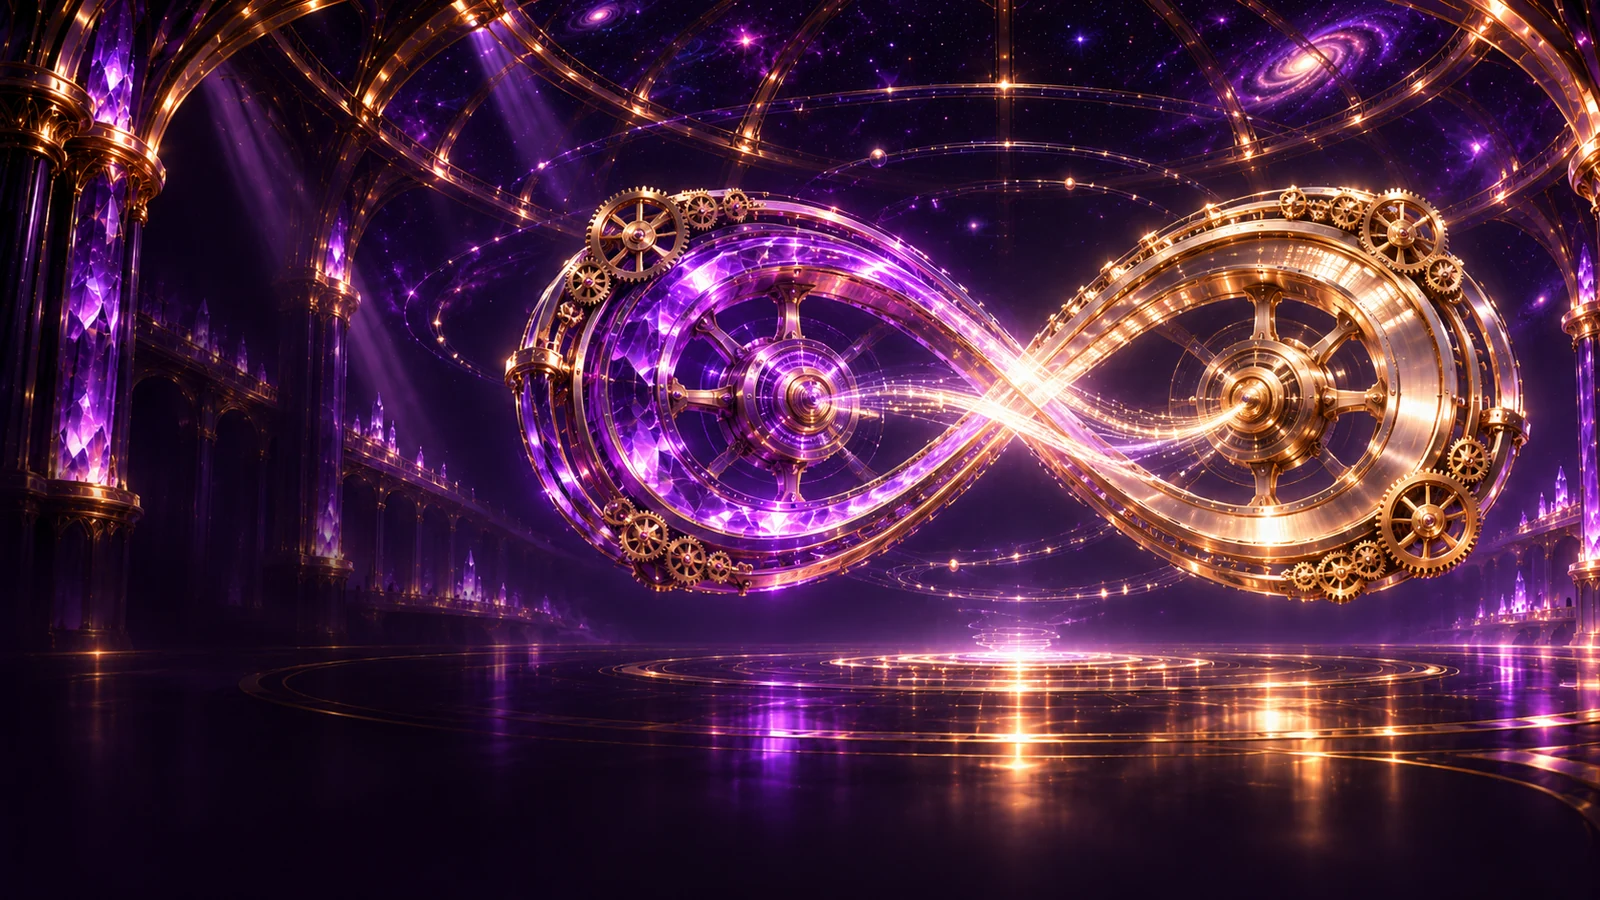
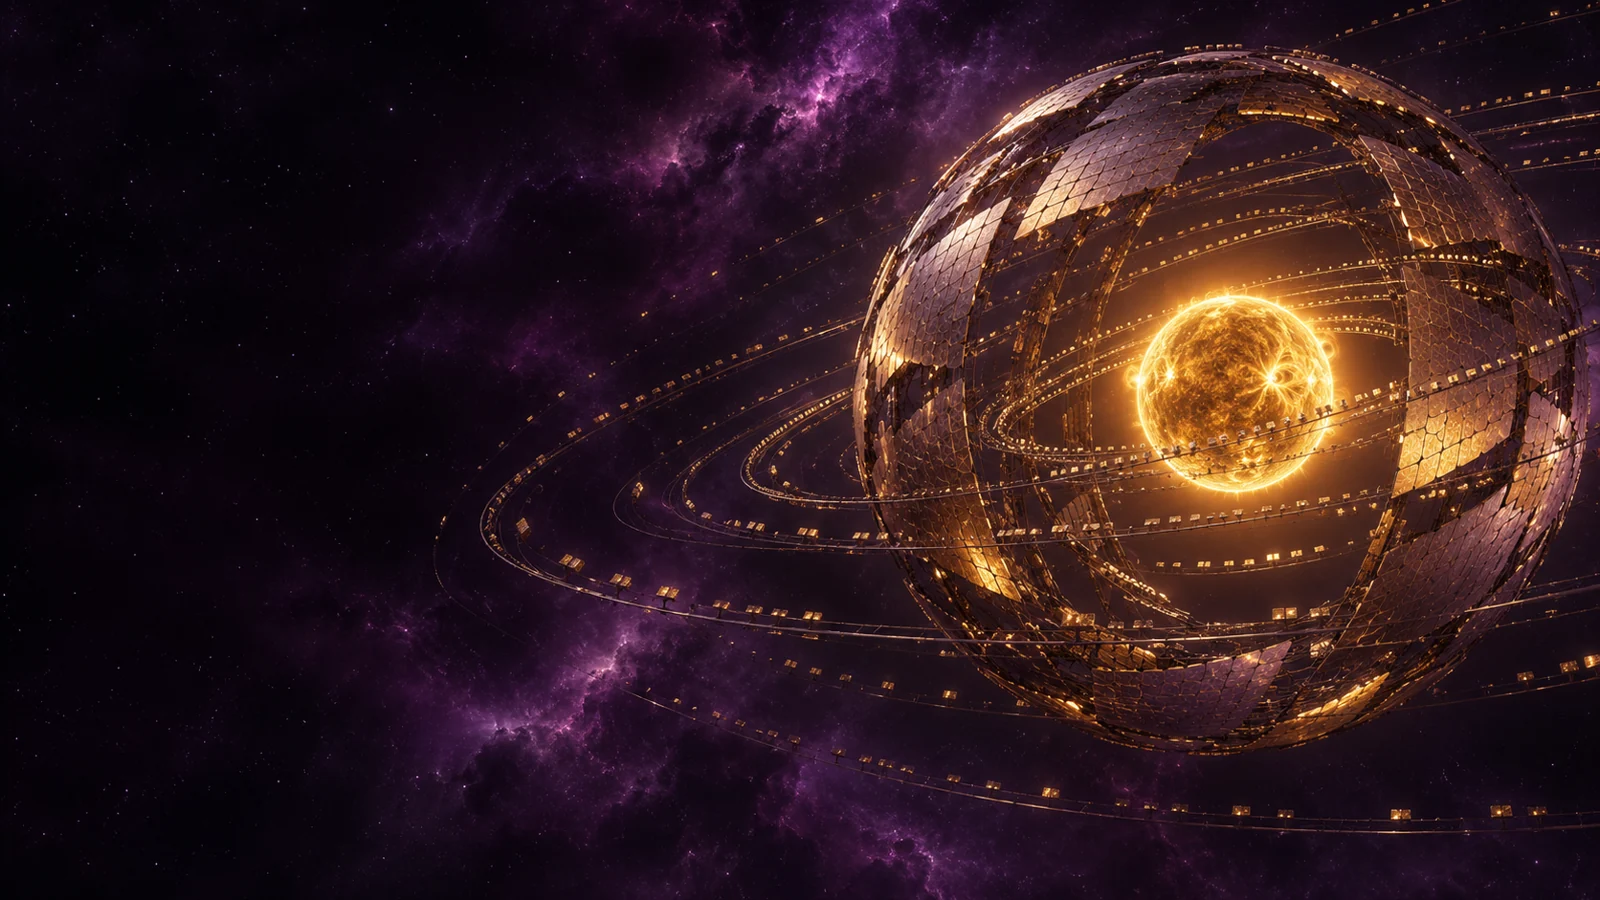
Launch the Kardashev II Conclave observatory (#624)
* Make the Conclave flagship an interactive stellar observatory

* Keep the active demo heading below the sticky wallet navigation

diff --git a/docs/research/frontier-omega-alpha/frontier.css b/docs/research/frontier-omega-alpha/frontier.css
@@ -834,3 +834,80 @@ body:has(#member:not([hidden]):not([data-public-view])) #main > :not(#member) { 
   @keyframes df-lift{from{transform:translateY(8px)}to{transform:translateY(0)}}
   @keyframes df-lift-alt{from{transform:translateY(8px)}to{transform:translateY(0)}}
 }
+
+/* Conclave control room. Motion follows intervention, never substituting for evidence. */
+.df [data-df=chamber]{border:1px solid #79588d;border-radius:18px;overflow:hidden;background:#0f091d;box-shadow:0 16px 62px #08041370}
+.df .df-reactor{position:relative;isolation:isolate;overflow:hidden;background:#080518 radial-gradient(ellipse at center,#46297077 0%,#14102680 52%,#080518 87%)}
+.df .df-reactor::before{content:"";position:absolute;inset:0;z-index:-1;background:center 51%/cover url("double-flywheel-finale.webp");opacity:.23;transition:opacity .6s}
+.df .df-reactor[data-mode=open]::before{opacity:.62}
+.df .df-orbits{width:100%;height:clamp(140px,29vw,270px);display:block;overflow:visible}
+.df .df-stars{fill:#e6d2ff}
+.df .df-instrument{stroke:#c0a3e96c;stroke-width:.65}
+.df .df-orbit,.df .df-trace{fill:none;stroke-width:2.1}
+.df .df-orbit{opacity:.27;transition:opacity .28s}
+.df .df-orbit-v,.df .df-trace-v{stroke:url(#df-tool-color)}
+.df .df-orbit-g,.df .df-trace-g{stroke:url(#df-cap-color)}
+.df .df-trace{stroke-width:5;stroke-linecap:round;stroke-dasharray:9 91;opacity:0}
+.df .df-pivot{fill:#160d29;stroke:#bd93ce;stroke-width:1.5}
+.df .df-omega,.df .df-omega-new{font:64px Georgia,serif;fill:#eadcff}
+.df .df-omega-new,.df .df-halo{opacity:0;transition:opacity .35s}
+.df [data-mode=tool] .df-orbit-v,.df [data-mode=fund] .df-orbit-g,.df [data-mode=open] .df-orbit{opacity:1}
+.df [data-mode=open] .df-halo,.df [data-mode=open] .df-omega-new{opacity:1}
+.df [data-mode=open] .df-omega-new{fill:#fff2bd}
+.df [data-mode=open] .df-pivot{fill:#211028;stroke:#ffd786}
+.df [data-mode=open] .df-omega{opacity:0}
+.df .df-reactor-key{position:absolute;inset:auto 9% .6rem;display:flex;justify-content:space-between;font-size:.85rem;font-weight:750}
+.df .df-reactor-key span:first-child{color:#f0ccff}
+.df .df-reactor-key span+span{color:#ffe8af}
+.df .df-experiment{padding:clamp(.75rem,2.5vw,1.3rem);background:linear-gradient(135deg,#1c122e,#130d21)}
+.df .df-experiment-caption{margin:0 0 .65rem;color:#f2e6fc;font-size:.96rem}
+.df .df-switches,.df .df-proof-strip,.df .df-capital-strip{display:grid;grid-template-columns:repeat(2,minmax(0,1fr));gap:.6rem}
+.df .df-switch{appearance:none;min-height:48px;text-align:start;display:flex;gap:.47rem;align-items:center;padding:.45rem .65rem;border-radius:8px;border:1px solid #a080b5;background:#25183a;color:#fff;font:inherit;font-size:.9rem;line-height:1.12;cursor:pointer}
+.df .df-switch span{display:inline-block;flex:0 0 .73rem;height:.73rem;border:1px solid currentColor;border-radius:100%;color:#e2b4ff}
+.df .df-switch-fund span{color:#ffdda0}
+.df .df-switch[aria-pressed=true]{border-color:#ddb2ff;background:#412059}
+.df .df-switch-fund[aria-pressed=true]{border-color:#ffd786;background:#4b3227}
+.df .df-switch[aria-pressed=true] span{background:currentColor;box-shadow:0 0 11px currentColor}
+.df .df-switch:focus-visible{outline:2px solid #fff2bb;outline-offset:2px}
+.df .df-chamber-output{display:grid;gap:.15rem;margin-top:.7rem;padding:.65rem .7rem;border-inline-start:2px solid #ba88d5;background:#0d0818;border-radius:3px;color:#ecdbff}
+.df .df-chamber-output[data-open=true]{border-color:#ffd786;background:#302214;color:#ffecb9}
+.df .df-chamber-output strong{font-size:clamp(1.02rem,3vw,1.35rem);line-height:1.16}
+.df .df-chamber-output p{display:flex;gap:.65rem;align-items:baseline;flex-wrap:wrap;margin:0;font-size:.85rem}
+.df .df-chamber-output b{font:700 1.18rem Georgia,serif;color:#fff}
+.df .df-reveal-line{margin:.6rem 0 0;color:#fff0cb;font:600 clamp(1.05rem,3vw,1.45rem)/1.25 Georgia,serif}
+.df .df-counterfactuals{margin-top:.75rem}
+.df .df-counterfactuals>summary{cursor:pointer;color:#f3d594;margin-bottom:.5rem}
+.df .df-signal{position:relative;border:1px solid #805d9a;border-radius:10px;overflow:hidden;background:linear-gradient(145deg,#201039,#110a20)}
+.df .df-signal svg{width:100%;height:75px;display:block}
+.df .df-gridline,.df .df-grid-threshold,.df .df-scope-wave{fill:none;vector-effect:non-scaling-stroke}
+.df .df-gridline{stroke:#654680;stroke-width:.65}
+.df .df-grid-threshold{stroke:#e7c080;stroke-width:1;stroke-dasharray:3 7}
+.df .df-scope-wave{stroke:#deacff;stroke-width:2;filter:drop-shadow(0 0 4px #cd95ff)}
+.df .df-signal-label{display:flex;flex-wrap:wrap;gap:.35rem 1rem;padding:.45rem .65rem;color:#e4d1f2;font-size:.9rem}
+.df .df-signal-label b{color:#fff0c8}
+.df .df-proof-strip span,.df .df-capital-strip span{padding:.58rem .6rem;border:1px solid #9467ac;border-radius:8px;background:#291b3a;color:#f8eaff}
+.df .df-proof-strip span[data-pass=false]{border-color:#eaa6a5;color:#ffdcda;background:#3b222c}
+.df .df-capital-strip b{display:inline-block;margin-right:.3rem;font:700 1.45rem Georgia,serif;color:#ffe1a3}
+.df .df-method-note{font-size:.88rem;color:#eadaf6}
+@media(min-width:760px){
+  .df .df-proof-strip,.df .df-capital-strip{grid-template-columns:repeat(4,minmax(0,1fr))}
+}
+@media(max-width:520px){
+  .df .df-orbits{width:130%;margin-left:-15%}
+  .df .df-reactor-key{inset-inline:6%}
+  .df .df-stage[data-df-state=payoff] h4{scroll-margin-top:10.4rem}
+}
+@media(prefers-reduced-motion:no-preference){
+  .df [data-mode=tool] .df-trace-v,.df [data-mode=fund] .df-trace-g,.df [data-mode=open] .df-trace{animation:df-impulse 1.25s ease-out 2}
+  .df [data-mode=open] .df-halo{transform-origin:center;animation:df-corona .9s ease-out both}
+  .df .df-scope-wave{animation:df-acquire .85s ease-out both}
+  @keyframes df-impulse{0%{opacity:0;stroke-dashoffset:0}24%{opacity:1}80%{opacity:.9}100%{opacity:0;stroke-dashoffset:-100}}
+  @keyframes df-corona{from{opacity:0;transform:scale(.42)}50%{opacity:1;transform:scale(1.14)}to{opacity:1;transform:scale(1)}}
+  @keyframes df-acquire{from{stroke-dasharray:0 100}to{stroke-dasharray:100 0}}
+}
+@media(prefers-reduced-motion:reduce){.df .df-reactor::before,.df .df-orbit,.df .df-halo,.df .df-omega-new{transition:none}}
+.df .df-workshop{border-top:1px solid #654a78;margin-top:.6rem;padding-top:.8rem}
+.df .df-workshop summary{color:#f2ce91}
+@media(max-width:650px){
+  .df .df-hero{background-position:62% center;background-image:linear-gradient(90deg,#150d26f4 0%,#150d26d7 55%,#150d268c 100%),url("double-flywheel-cover.webp")}
+}

diff --git a/products/frontier-member-tools/member.fr.html b/products/frontier-member-tools/member.fr.html
@@ -268,10 +268,10 @@
   </section>
   <section class="df" id="double-flywheel" data-double-flywheel aria-labelledby="df-title" data-member-view hidden data-nosnippet>
       <div class="df-hero">
-        <p class="df-kicker">THE FRONTIER CONCLAVE Ω · DÉMONSTRATION PHARE</p>
+        <p class="df-kicker">THE FRONTIER CONCLAVE Ω · KARDACHEV II</p>
         <h3 id="df-title" tabindex="-1">Capter l’exponentielle</h3>
-        <p class="df-lead">Un programme de recherche unifié. Une architecture technologique intégrée. Une ambition : une machine d’invention autonome et économiquement productive.</p>
-        <p class="df-scope" id="df-scope">Voyez comment une invention vérifiée peut contribuer à financer et à construire la suivante. Simulation en quatre étapes : ni modèle, ni paiement réel, ni autoamélioration démontrée.</p>
+        <p class="df-lead">Une étoile alimente l’observatoire. Une invention peut-elle alimenter la suivante?</p>
+        <p class="df-scope" id="df-scope">Prenez les commandes d’un observatoire stellaire fictif. Créez un spécialiste, vérifiez son travail et découvrez ce qu’il rend possible. Aucun entraînement de modèle ni paiement réel.</p>
         <div data-df="start-slot"><button type="button" class="entry-button df-start" data-df="start" aria-describedby="df-scope" disabled>Lancer la démonstration</button></div>
         <details class="df-control">
           <summary>Essayer une vérification qui échoue</summary>
@@ -288,7 +288,11 @@
         <h4 tabindex="-1" data-df="title"></h4>
         <p data-df="body"></p>
         <p data-df="status" role="status"></p>
+        <div data-df="visual" hidden></div>
         <div class="df-finale" data-df="finale" hidden>
+          <div data-df="chamber"></div>
+          <details class="df-counterfactuals" data-df="counterfactuals">
+            <summary>Comparer les trois scénarios</summary>
           <div class="df-crossing">
             <div class="df-symbols" aria-hidden="true"><span>Ω</span><span>→</span><strong>Ω<sup>+1</sup></strong></div>
             <p>Un outil vérifié. Un nouveau cycle.</p>
@@ -313,6 +317,7 @@
           </div>
           <div class="df-reserve"><strong data-df="spare"></strong><span>crédits simulés en réserve pour le prochain essai</span></div>
           <p class="df-close">L’outil réduit le coût. Le réinvestissement augmente le budget. C’est ce qui permet de lancer la prochaine invention.</p>
+          </details>
         </div>
         <div data-df="ledger-slot"><dl class="df-ledger" data-df="ledger"></dl></div>
         <details data-df="audit" hidden>
@@ -321,6 +326,7 @@
           <pre data-df="raw" tabindex="0" aria-label="Reçu JSON de la simulation"></pre>
         </details>
         <div data-df="next-slot"></div>
+        <details class="df-workshop" data-df="workshop" hidden><summary>Prolongez l’expérience</summary><p>Choisissez une tâche récurrente. Définissez un résultat vérifiable de manière indépendante et son coût sans réemploi. Gardez un outil du premier essai et testez-le sur de nouvelles données, sans changer les critères de qualité. Notez ce qui devient possible et ce qui ne l’est toujours pas.</p></details>
       </div>
       <footer class="df-footer">
         <p class="df-kicker">Le double cycle</p>

diff --git a/products/frontier-member-tools/member.en.html b/products/frontier-member-tools/member.en.html
@@ -268,10 +268,10 @@
   </section>
   <section class="df" id="double-flywheel" data-double-flywheel aria-labelledby="df-title" data-member-view hidden data-nosnippet>
       <div class="df-hero">
-        <p class="df-kicker">THE FRONTIER CONCLAVE Ω · FLAGSHIP DEMO</p>
+        <p class="df-kicker">THE FRONTIER CONCLAVE Ω · KARDASHEV II</p>
         <h3 id="df-title" tabindex="-1">Capturing the Exponential</h3>
-        <p class="df-lead">A unified research programme. An integrated technological architecture. One ambition: a self-sustaining, economically productive invention machine.</p>
-        <p class="df-scope" id="df-scope">See how one verified invention can help finance and build the next. A four-step simulation; no model, live payment or demonstrated self-improvement.</p>
+        <p class="df-lead">A star powers the observatory. Can one invention power the next?</p>
+        <p class="df-scope" id="df-scope">Take command of a fictional stellar observatory. Build a specialist, verify its work and see what it unlocks. No live model training or payments.</p>
         <div data-df="start-slot"><button type="button" class="entry-button df-start" data-df="start" aria-describedby="df-scope" disabled>Start demonstration</button></div>
         <details class="df-control">
           <summary>Try a failed verification</summary>
@@ -288,7 +288,11 @@
         <h4 tabindex="-1" data-df="title"></h4>
         <p data-df="body"></p>
         <p data-df="status" role="status"></p>
+        <div data-df="visual" hidden></div>
         <div class="df-finale" data-df="finale" hidden>
+          <div data-df="chamber"></div>
+          <details class="df-counterfactuals" data-df="counterfactuals">
+            <summary>Compare the three scenarios</summary>
           <div class="df-crossing">
             <div class="df-symbols" aria-hidden="true"><span>Ω</span><span>→</span><strong>Ω<sup>+1</sup></strong></div>
             <p>One verified tool. A new cycle.</p>
@@ -313,6 +317,7 @@
           </div>
           <div class="df-reserve"><strong data-df="spare"></strong><span>simulated credits left for the next experiment</span></div>
           <p class="df-close">The tool lowered the cost. Reinvestment raised the budget. That’s why the next invention could begin.</p>
+          </details>
         </div>
         <div data-df="ledger-slot"><dl class="df-ledger" data-df="ledger"></dl></div>
         <details data-df="audit" hidden>
@@ -321,6 +326,7 @@
           <pre data-df="raw" tabindex="0" aria-label="Simulation receipt JSON"></pre>
         </details>
         <div data-df="next-slot"></div>
+        <details class="df-workshop" data-df="workshop" hidden><summary>Take the experiment further</summary><p>Pick a task you repeat. Name one independently checkable result and what it costs to produce from scratch. Retain a tool from the first run, then test it on different inputs with the same quality bar. Count what actually becomes feasible and what still doesn’t.</p></details>
       </div>
       <footer class="df-footer">
         <p class="df-kicker">The double flywheel</p>
